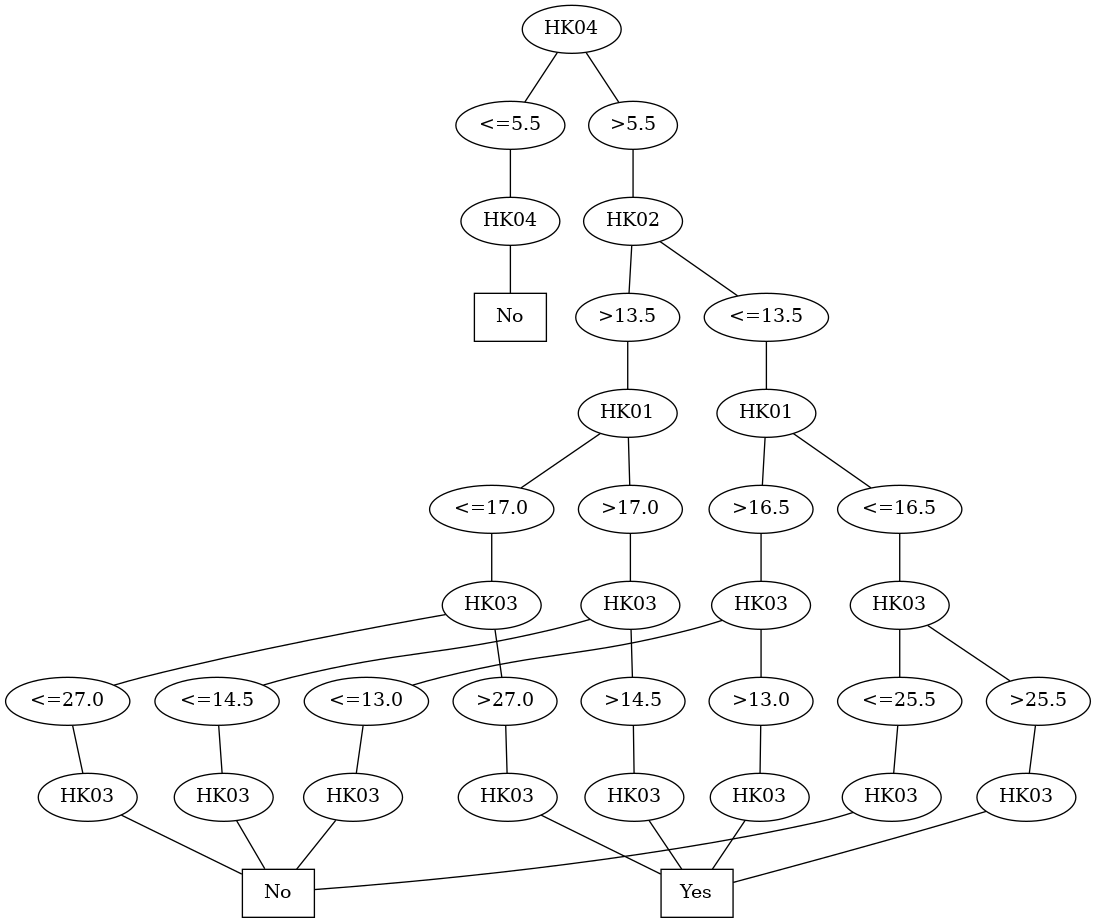
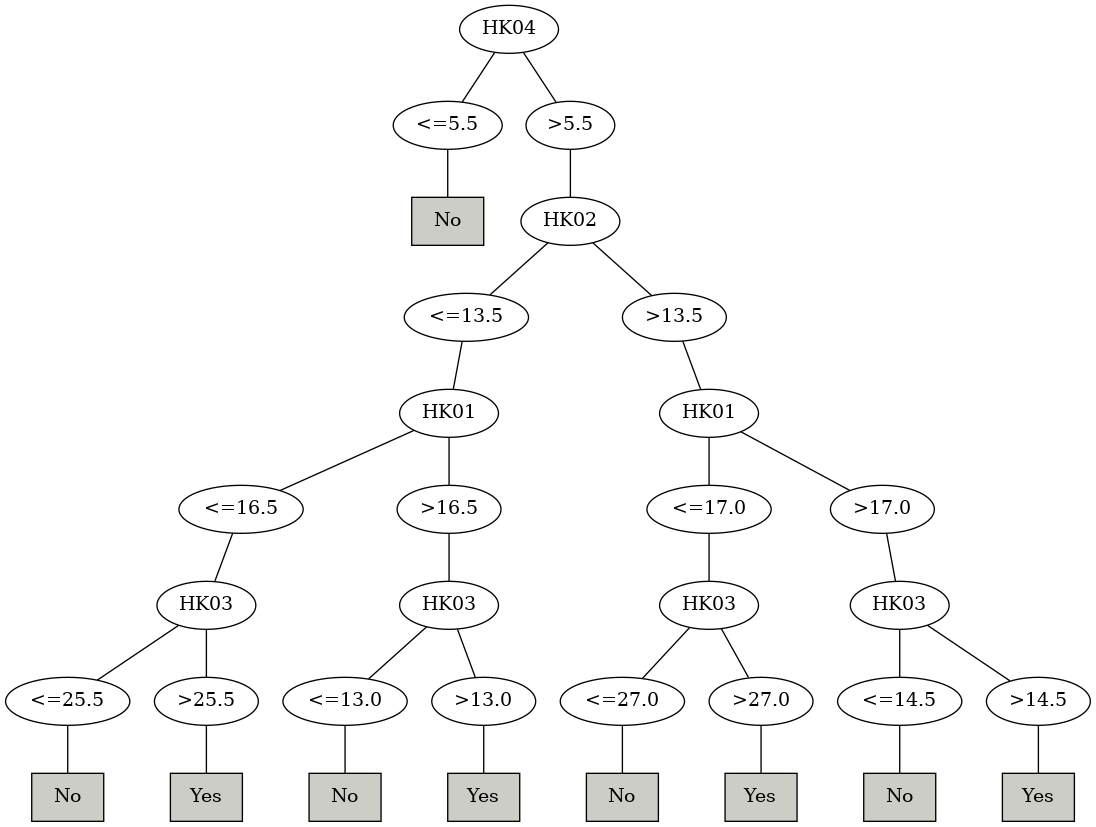
update image

diff --git a/c45.py b/c45.py
@@ -57,12 +57,23 @@ class C45:
 	
 	def __generate_tree_dict(self, node:Node):
 		if node.is_leaf:
-			return node.label
+			return 
 
-		leftChild = node.children[0]
-		rightChild = node.children[1]
-		return {"<="+str(node.threshold): {leftChild.criterion: self.__generate_tree_dict(leftChild)},
-                ">"+str(node.threshold): {rightChild.criterion: self.__generate_tree_dict(rightChild)}}
+		leftChild:Node = node.children[0]
+		rightChild:Node = node.children[1]
+
+		branch ={}
+		if leftChild.is_leaf:
+			branch["<="+str(node.threshold)] = leftChild.label
+		else:
+			branch["<="+str(node.threshold)] = {leftChild.criterion: self.__generate_tree_dict(leftChild)}
+		
+		if rightChild.is_leaf:
+			branch[">"+str(node.threshold)] = rightChild.label
+		else:
+			branch[">"+str(node.threshold)] = {rightChild.criterion: self.__generate_tree_dict(rightChild)}
+
+		return branch
 	
 	def draw_tree(self):
 		plot_tree(self.tree_dict, "bi-decision tree")

diff --git a/draw.py b/draw.py
@@ -26,7 +26,7 @@ def walk_dictionaryv2(graph, dictionary, parent_node=None):
                 to_name = str(k) + '_' + str(dictionary[k]) # unique name
                 to_label = str(dictionary[k])
 
-                node_to = pydot.Node(to_name, label=to_label, shape='box')
+                node_to = pydot.Node(to_name, label=to_label, shape='box', style = 'filled', fillcolor = '#CCCDC6' if isinstance(dictionary[k], dict) else '#CCCDC6')
                 graph.add_node(node_to)
                 graph.add_edge(pydot.Edge(node_from, node_to))
 

diff --git a/main.py b/main.py
@@ -4,5 +4,5 @@ c1 = C45("data/All.xlsx")
 c1.load_data(["HK01", "HK02", "HK03", "HK04"], "Graduation")
 c1.generateTree()
 c1.generate_tree_dict()
-# c1.printTree()
+c1.printTree()
 c1.draw_tree()
